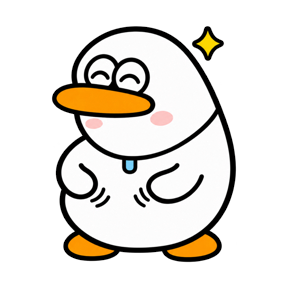
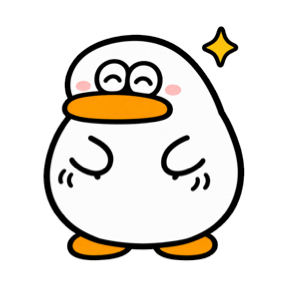
달력 빈 끼니 칸에 빈 그릇 그림, 새 오둥이 밥상 그림
- 빈 칸의 카메라 · + 아이콘 대신 아스트로가 그린 빈 그릇(아침 머그 · 점심 밥그릇 · 저녁 접시). 지난날은 흐리게
- 오둥이 아침 · 점심 · 저녁 · 배부름을 아스트로의 새 그림으로
- 밥상 그림 8장을 같은 키 · 같은 발 위치로 맞춤 (새 오둥이 저녁만 9% 컸다)
- make-calendar-art: 위아래가 뒤집혀 읽히던 그림 범위를 바로잡고 빈 그릇 그림도 만든다

Changed region(s): [[0.125, 0.0625, 0.875, 0.9375]]

diff --git a/scripts/make-calendar-art.swift b/scripts/make-calendar-art.swift
@@ -1,6 +1,7 @@
 // 아스트로가 그린 달력 · 도장 그림(1024px)을 앱에 쓸 크기로 만든다.
 // Build: swiftc -O -o /tmp/mkcal scripts/make-calendar-art.swift && /tmp/mkcal assets/astro/calendar assets/art
 //  - 밥상 캐릭터 8장 → art/meal/{who}-{breakfast,lunch,dinner,full}.png (288px, 거의 불투명한 곳은 완전히 불투명하게)
+//  - 빈 끼니 칸 그림 3장 → art/slot/{breakfast,lunch,dinner}.png (168px)
 //  - 달력 도장 6장 → art/stamp/{who}-{smile,yum,wink}.png (120px, 오둥이 하늘 잉크 · 퍼펭이 민트 잉크로 칠함)
 //  - 사진 도장 고리 → art/seal-ring-rough.png (512px, 검정) + 고리 바깥선으로 만든 원판 art/seal-disc-rough.png
 import Foundation
@@ -46,7 +47,7 @@ final class Bitmap {
   var image: CGImage { ctx.makeImage()! }
 }
 
-/// 알파가 thr보다 큰 픽셀의 범위 (버퍼 좌표: y=0이 아래)
+/// 알파가 thr보다 큰 픽셀의 범위 (메모리 좌표: y=0이 맨 위 줄)
 func bbox(_ b: Bitmap, thr: UInt8 = 16) -> (x0: Int, y0: Int, x1: Int, y1: Int) {
   var x0 = b.w, y0 = b.h, x1 = -1, y1 = -1
   for y in 0..<b.h { for x in 0..<b.w where b.alpha(x, y) > thr { x0 = min(x0, x); x1 = max(x1, x); y0 = min(y0, y); y1 = max(y1, y) } }
@@ -61,11 +62,22 @@ func resample(_ img: CGImage, crop: CGRect, size: Int) -> Bitmap {
   return out
 }
 
-// ── 1. 밥상 캐릭터: 프레임은 그대로(모두 같은 크기 · 같은 발 위치), 288px ──
+// ── 1. 밥상 캐릭터: 8장을 같은 키 · 같은 발 위치로 맞춰 288px ──
+// 그림마다 캐릭터 크기가 조금씩 달라서(예: 새 오둥이 저녁만 9% 큼) 끼니가 바뀔 때 커졌다 작아지지 않게,
+// 그림 내용의 키를 프레임의 81.6%, 발끝을 위에서 90.6%(퍼펭이 원래 자리)에 두고 가로는 가운데로
+let fitHeight: CGFloat = 0.816, fitBottom: CGFloat = 0.906
 for who in ["odung", "perpeng"] {
   for meal in ["breakfast", "lunch", "dinner", "full"] {
     let img = load("\(who)-meal-\(meal).png")
-    let b = resample(img, crop: CGRect(x: 0, y: 0, width: img.width, height: img.height), size: 288)
+    let bb = bbox(Bitmap(img), thr: 40) // 메모리 좌표: y=0이 위
+    let W = CGFloat(img.width)
+    let contentH = CGFloat(bb.y1 - bb.y0 + 1)
+    let side = contentH / fitHeight // 이 크기의 정사각형을 잘라 288px로
+    let cx = CGFloat(bb.x0 + bb.x1 + 1) / 2
+    let bottomFromTop = CGFloat(bb.y1 + 1) // 위에서 잰 발끝
+    let top = bottomFromTop - fitBottom * side
+    let crop = CGRect(x: cx - side / 2, y: W - (top + side), width: side, height: side)
+    let b = resample(img, crop: crop, size: 288)
     // 거의 불투명(228 이상)한 곳은 완전히 불투명하게: 유리 카드 위에서 비쳐 보이지 않게
     for i in stride(from: 0, to: b.w * b.h * 4, by: 4) {
       let a = Int(b.p[i + 3])
@@ -78,6 +90,20 @@ for who in ["odung", "perpeng"] {
   }
 }
 
+// ── 1-2. 빈 끼니 칸 그림(빈 그릇): 프레임 그대로 168px (칸 안에 44px로 들어간다) ──
+for meal in ["breakfast", "lunch", "dinner"] {
+  let img = load("slot-\(meal).png")
+  let b = resample(img, crop: CGRect(x: 0, y: 0, width: img.width, height: img.height), size: 168)
+  for i in stride(from: 0, to: b.w * b.h * 4, by: 4) {
+    let a = Int(b.p[i + 3])
+    if a >= 228 && a < 255 {
+      for c in 0..<3 { b.p[i + c] = UInt8(min(255, Int(b.p[i + c]) * 255 / a)) }
+      b.p[i + 3] = 255
+    }
+  }
+  save(b.image, "slot/\(meal).png")
+}
+
 // ── 2. 달력 도장: 테두리에 딱 맞게 잘라 120px, 잉크 색으로 ──
 let inks: [String: (Int, Int, Int)] = ["odung": (74, 127, 208), "perpeng": (47, 154, 137)]
 for who in ["odung", "perpeng"] {
@@ -86,7 +112,7 @@ for who in ["odung", "perpeng"] {
     let full = Bitmap(img)
     let bb = bbox(full)
     let side = CGFloat(max(bb.x1 - bb.x0, bb.y1 - bb.y0) + 1) * 1.03
-    let cx = CGFloat(bb.x0 + bb.x1 + 1) / 2, cy = CGFloat(bb.y0 + bb.y1 + 1) / 2
+    let cx = CGFloat(bb.x0 + bb.x1 + 1) / 2, cy = CGFloat(img.height) - CGFloat(bb.y0 + bb.y1 + 1) / 2 // 그리기 좌표(y=0이 아래)로
     let b = resample(img, crop: CGRect(x: cx - side / 2, y: cy - side / 2, width: side, height: side), size: 120)
     let (r, g, bl) = inks[who]!
     for i in stride(from: 0, to: b.w * b.h * 4, by: 4) {
@@ -104,7 +130,7 @@ do {
   let bb = bbox(full, thr: 40)
   // 고리 바깥 지름이 그림 폭의 98.5%가 되게 (앱은 원판 지름 2R을 0.985로 나눈 크기로 그린다)
   let side = CGFloat(max(bb.x1 - bb.x0, bb.y1 - bb.y0) + 1) / 0.985
-  let cx = CGFloat(bb.x0 + bb.x1 + 1) / 2, cy = CGFloat(bb.y0 + bb.y1 + 1) / 2
+  let cx = CGFloat(bb.x0 + bb.x1 + 1) / 2, cy = CGFloat(img.height) - CGFloat(bb.y0 + bb.y1 + 1) / 2 // 그리기 좌표(y=0이 아래)로
   let crop = CGRect(x: cx - side / 2, y: cy - side / 2, width: side, height: side)
   let W = 1024
   let work = resample(img, crop: crop, size: W)

diff --git a/js/app.js b/js/app.js
@@ -1,13 +1,13 @@
 import {
   WEEKDAYS, MEALS, fmtClock, monthDay, dayKey, fromDayKey, fileStamp,
   relDay, mealLabel, mealFor, toLocalInput, fromLocalInput,
-} from './format.js?v=69';
-import { readExifDate } from './exif.js?v=69';
-import { drawStamp, characterBox, SEAL_RING, SEAL_DISC, STYLES, COLORS, styleUsesColor } from './stamp.js?v=69';
-import * as db from './db.js?v=69';
+} from './format.js?v=70';
+import { readExifDate } from './exif.js?v=70';
+import { drawStamp, characterBox, SEAL_RING, SEAL_DISC, STYLES, COLORS, styleUsesColor } from './stamp.js?v=70';
+import * as db from './db.js?v=70';
 
 // 배포할 때 scripts/bump-version.sh 가 함께 올린다
-const APP_VERSION = '69';
+const APP_VERSION = '70';
 
 const $ = (sel, root = document) => root.querySelector(sel);
 const $$ = (sel, root = document) => [...root.querySelectorAll(sel)];
@@ -827,7 +827,6 @@ const dayStamp = (key) => ({
 // 밥상 카드의 캐릭터: 아직 안 먹은 날은 빈 그릇, 먹은 끼니가 있으면 마지막 끼니를 먹는 모습, 세 끼 다면 배부른 모습
 const mealArt = (pose) => (pose ? `assets/art/meal/${state.family}-${pose}.png` : art.empty);
 const CHECK_SVG = '<svg viewBox="0 0 24 24" fill="none" stroke="currentColor" stroke-width="3" stroke-linecap="round" stroke-linejoin="round" aria-hidden="true" focusable="false"><path d="M5 12l5 5l10 -10"/></svg>';
-const PLUS_SVG = '<svg viewBox="0 0 24 24" fill="none" stroke="currentColor" stroke-width="2" stroke-linecap="round" stroke-linejoin="round" aria-hidden="true" focusable="false"><path d="M12 5v14"/><path d="M5 12h14"/></svg>';
 
 // 날마다 남긴 끼니 (day → Set). 사진은 있는데 세 끼가 하나도 없는 날도 빈 Set으로 들어간다
 function mealsByDay() {
@@ -926,7 +925,8 @@ function renderDay() {
       return `<div class="slot"><button class="slot-ph" type="button" data-id="${r.id}" aria-label="${label} ${t} 사진 보기"><img src="${thumbUrl(r)}" alt="">${more}</button>`
         + `<p class="slot-lb">${CHECK_SVG}${label}</p></div>`;
     }
-    return `<div class="slot"><button class="slot-ph is-empty${isToday ? ' is-today' : ''}" type="button" data-slot="${m}" aria-label="${label} 사진 ${isToday ? '찍기' : '추가하기'}">${isToday ? CAMERA_SVG : PLUS_SVG}<span>${isToday ? '찍기' : '추가'}</span></button>`
+    // 빈 칸: 아직 비어 있는 그릇 그림 (카메라 모양은 아래 탭바 버튼과 겹쳐서 쓰지 않는다)
+    return `<div class="slot"><button class="slot-ph is-empty${isToday ? ' is-today' : ''}" type="button" data-slot="${m}" aria-label="${label} 사진 ${isToday ? '찍기' : '추가하기'}"><img class="slot-dish" src="assets/art/slot/${m}.png" alt=""><span>${isToday ? '찍기' : '추가'}</span></button>`
       + `<p class="slot-lb is-wait">${label}</p></div>`;
   }).join('');
 }

diff --git a/index.html b/index.html
@@ -12,12 +12,12 @@
 <meta name="format-detection" content="telephone=no">
 <meta name="description" content="식단 사진에 날짜, 요일, 시각을 찍어 트레이너에게 보내는 앱">
 <title>TimeStamp</title>
-<link rel="manifest" href="manifest.webmanifest?v=69">
-<link rel="icon" type="image/png" sizes="192x192" href="assets/icons/icon-192.png?v=69">
-<link rel="apple-touch-icon" sizes="180x180" href="assets/icons/apple-touch-icon.png?v=69">
+<link rel="manifest" href="manifest.webmanifest?v=70">
+<link rel="icon" type="image/png" sizes="192x192" href="assets/icons/icon-192.png?v=70">
+<link rel="apple-touch-icon" sizes="180x180" href="assets/icons/apple-touch-icon.png?v=70">
 <link rel="preconnect" href="https://cdn.jsdelivr.net" crossorigin>
 <link rel="stylesheet" href="https://cdn.jsdelivr.net/gh/orioncactus/pretendard@v1.3.9/dist/web/variable/pretendardvariable-dynamic-subset.min.css">
-<link rel="stylesheet" href="styles.css?v=69">
+<link rel="stylesheet" href="styles.css?v=70">
 <script>
   // 배포 직후 예전 파일과 새 파일이 섞여 앱이 시작하지 못하면, 한 번만 캐시를 비우고 새로 불러온다.
   (function () {
@@ -38,7 +38,7 @@
     setTimeout(function () { if (!window.__tsBooted) heal(); }, 6000);
   })();
 </script>
-<script type="module" src="js/app.js?v=69"></script>
+<script type="module" src="js/app.js?v=70"></script>
 </head>
 <body>
 <div id="app" class="app">
@@ -196,7 +196,7 @@
       <section class="set-group">
         <p class="set-p" id="storage-note"></p>
         <div class="set-about">
-          <img class="about-icon" src="assets/icons/icon-192.png?v=69" alt="" aria-hidden="true" width="40" height="40">
+          <img class="about-icon" src="assets/icons/icon-192.png?v=70" alt="" aria-hidden="true" width="40" height="40">
           <p class="set-p" id="app-version"></p>
           <button class="pt-text-button" type="button" id="refresh-now">새로고침</button>
         </div>

diff --git a/styles.css b/styles.css
@@ -686,7 +686,8 @@ html[data-refresh-state="refreshing"] .pull-refresh-dots { display: inline-flex;
   background: rgba(255, 255, 255, .45); border: 1.5px dashed rgba(109, 134, 164, .3); color: var(--ink3); font-size: 12px; font-weight: 650;
 }
 .slot-ph.is-empty.is-today { border-color: rgba(49, 130, 246, .4); color: var(--blue-ink); background: rgba(255, 255, 255, .5); }
-.slot-ph.is-empty svg { width: 22px; height: 22px; }
+.slot-ph .slot-dish { width: 44px; height: 44px; object-fit: contain; pointer-events: none; }
+.slot-ph.is-empty:not(.is-today) .slot-dish { opacity: .5; } /* 지난날 빈 칸은 그릇도 흐리게 */
 .slot-more { position: absolute; right: 6px; bottom: 6px; padding: 1px 7px; border-radius: 9px; background: rgba(25, 31, 40, .5); color: #fff; font-size: 11px; font-weight: 650; line-height: 18px; }
 .slot-lb { display: flex; align-items: center; justify-content: center; gap: 3px; margin-top: 6px; font-size: 13px; line-height: 18px; font-weight: 700; letter-spacing: -.02em; white-space: nowrap; }
 .slot-lb svg { flex: none; width: 13px; height: 13px; color: var(--calendar-solo-ring); }

diff --git a/sw.js b/sw.js
@@ -2,7 +2,7 @@
 // GitHub Pages는 파일을 10분씩 캐시하게 해서, 배포 직후 예전 파일과 새 파일이 섞일 수 있다.
 // 그래서 매번 서버에 바뀌었는지 물어보고(no-cache, 안 바뀌었으면 304로 가볍게), 끊겼을 때만 저장본을 쓴다.
 // 버전 숫자는 scripts/bump-version.sh 가 올린다.
-const VERSION = '69';
+const VERSION = '70';
 const CACHE = `timestamp-v${VERSION}`;
 const SHELL = [
   './',
@@ -43,6 +43,7 @@ const SHELL = [
     ...['breakfast', 'lunch', 'dinner', 'full'].map((m) => `./assets/art/meal/${who}-${m}.png`),
     ...['smile', 'yum', 'wink'].map((f) => `./assets/art/stamp/${who}-${f}.png`),
   ]),
+  ...['breakfast', 'lunch', 'dinner'].map((m) => `./assets/art/slot/${m}.png`),
   `./assets/icons/icon-192.png?v=${VERSION}`,
   `./assets/icons/apple-touch-icon.png?v=${VERSION}`,
 ];

diff --git a/js/stamp.js b/js/stamp.js
@@ -9,7 +9,7 @@
 //  meal    혼합     왼쪽 위 끼니 라벨 + 시각 + 날짜 (여러 가지를 섞어 한 묶음으로)
 //  capsule 캡슐     왼쪽 아래 반투명 둥근 바탕 위 한 줄
 
-import { fmtLongDate, fmtClock, monthDay, mealLabel, pad2 } from './format.js?v=69';
+import { fmtLongDate, fmtClock, monthDay, mealLabel, pad2 } from './format.js?v=70';
 
 const FONT = '"Pretendard Variable", Pretendard, -apple-system, BlinkMacSystemFont, "Apple SD Gothic Neo", "Noto Sans KR", sans-serif';
 

diff --git a/README.md b/README.md
@@ -20,7 +20,7 @@ iPhone 17(402 × 874) 기준으로 만들었고, 디자인은 PT Note 디자인 
   - 저장 · 보내기 버튼 하나: 아이폰 공유 화면에서 ‘이미지 저장’ 또는 카카오톡을 골라요. ‘원본 사진도 저장’을 켜면 끝난 뒤 원본만 따로 저장하는 버튼이 떠요(카카오톡에는 스탬프 사진만).
 - **달력**: 아침 · 점심 · 저녁 끼니 체크. 스크롤 없이 한 화면에(6주짜리 달도).
   - 달력 칸: 한두 끼만 남긴 날은 점 세 개(남긴 끼니만 하늘색), 세 끼를 다 채운 날은 오둥이 · 퍼펭이 잉크 도장(표정 3종씩, 날짜마다 살짝 기울어 찍힘). 위에 이번 달 도장 수와 ‘N일 연속’.
-  - 밥상 카드: 고른 날의 캐릭터(빈 그릇 → 마지막으로 먹은 끼니 → 배부름)와 세 칸. 사진이 있으면 체크, 빈 칸을 누르면 그 끼니로 바로 찍기(오늘) · 사진 고르기(지난날).
+  - 밥상 카드: 고른 날의 캐릭터(빈 그릇 → 마지막으로 먹은 끼니 → 배부름)와 세 칸. 사진이 있으면 체크, 빈 칸(빈 그릇 그림)을 누르면 그 끼니로 바로 찍기(오늘) · 사진 고르기(지난날).
   - 간식은 체크에 들어가지 않고 앨범에서 봐요. 사진 보기에서 스탬프 화면과 같은 끼니 막대로 나중에 바꿀 수 있어요(아래 줄은 지우기 아이콘 + 앨범에 저장하기).
 - **설정**: 앱 열면 바로 카메라 · 즉시 저장(마지막에 쓴 스탬프로) · 원본 사진도 저장 · 셔터 소리·스탬프 효과 · 단축어 안내 · 버전과 새로고침
 - **당겨서 새로고침**: 맨 위에서 당기면 화면이 고무줄처럼 따라 내려오고, 다음 마스코트가 나와요. 놓으면 새 버전까지 받아요. 새로고침해도 보던 탭 · 달 · 위치 그대로예요.
